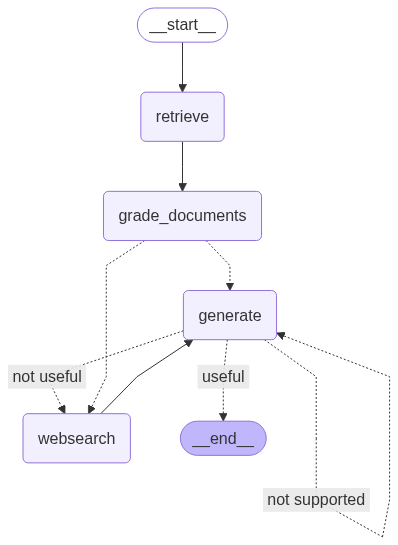
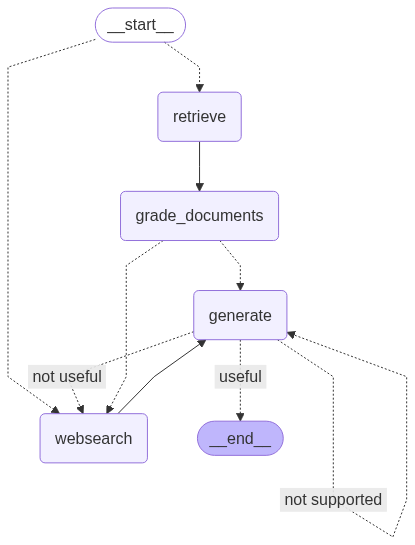
router chain with test cases

diff --git a/graph/chains/tests/test_chains.py b/graph/chains/tests/test_chains.py
@@ -1,8 +1,10 @@
 from pprint import pprint
 from dotenv import load_dotenv
 
+
 load_dotenv()
 
+from graph.chains.router import RouteQuery, question_router
 from graph.chains.hallucination_grader import GradeHallucinations, hallucination_grader
 from graph.chains.retrieval_grader import GradeDocuments, retrieval_grader
 from graph.chains.generation import generation_chain
@@ -10,46 +12,46 @@ from graph.chains.generation import generation_chain
 from ingestion import retriever
 
 
-# def test_retrival_grader_answer_yes() -> None:
-#     question = "agent memory"
-#     docs = retriever.invoke(question)
-#     doc_txt = docs[1].page_content
+def test_retrieval_grader_answer_yes() -> None:
+    question = "agent memory"
+    docs = retriever.invoke(question)
+    doc_txt = docs[1].page_content
 
-#     res: GradeDocuments = retrieval_grader.invoke(
-#         {"question": question, "document": doc_txt}
-#     )  # type: ignore
+    res: GradeDocuments = retrieval_grader.invoke(
+        {"question": question, "document": doc_txt}
+    )  # type: ignore
 
-#     assert res.binary_score == "yes"
-
-
-# def test_retrival_grader_answer_no() -> None:
-#     question = "agent memory"
-#     docs = retriever.invoke(question)
-#     doc_txt = docs[1].page_content
-
-#     res: GradeDocuments = retrieval_grader.invoke(
-#         {"question": "how to make pizaa", "document": doc_txt}
-#     )  # type: ignore
-
-#     assert res.binary_score == "no"
+    assert res.binary_score == "yes"
 
 
-# def test_generation_chain() -> None:
-#     question = "agent memory"
-#     docs = retriever.invoke(question)
-#     generation = generation_chain.invoke({"context": docs, "question": question})
-#     pprint(generation)
+def test_retrieval_grader_answer_no() -> None:
+    question = "agent memory"
+    docs = retriever.invoke(question)
+    doc_txt = docs[1].page_content
+
+    res: GradeDocuments = retrieval_grader.invoke(
+        {"question": "how to make pizaa", "document": doc_txt}
+    )  # type: ignore
+
+    assert res.binary_score == "no"
 
 
-# def test_hallucination_grader_answer_yes() -> None:
-#     question = "agent memory"
-#     docs = retriever.invoke(question)
+def test_generation_chain() -> None:
+    question = "agent memory"
+    docs = retriever.invoke(question)
+    generation = generation_chain.invoke({"context": docs, "question": question})
+    pprint(generation)
 
-#     generation = generation_chain.invoke({"context": docs, "question": question})
-#     res: GradeHallucinations = hallucination_grader.invoke(
-#         {"documents": docs, "generation": generation}
-#     )
-#     assert res.binary_score == "yes"
+
+def test_hallucination_grader_answer_yes() -> None:
+    question = "agent memory"
+    docs = retriever.invoke(question)
+
+    generation = generation_chain.invoke({"context": docs, "question": question})
+    res: GradeHallucinations = hallucination_grader.invoke(
+        {"documents": docs, "generation": generation}
+    )
+    assert res.binary_score == "yes"
 
 
 def test_hallucination_grader_answer_no() -> None:
@@ -63,3 +65,17 @@ def test_hallucination_grader_answer_no() -> None:
         }
     )
     assert res.binary_score == "no"
+
+
+def test_router_to_vectorstore() -> None:
+    question = "agent memory"
+
+    res: RouteQuery = question_router.invoke({"question": question})  # type: ignore
+    assert res.datasource == "vectorstore"
+
+
+def test_router_to_websearch() -> None:
+    question = "how to make pizza"
+
+    res: RouteQuery = question_router.invoke({"question": question})  # type: ignore
+    assert res.datasource == "websearch"

diff --git a/graph/graph.py b/graph/graph.py
@@ -4,6 +4,7 @@ from langgraph.graph import END, StateGraph
 
 from graph.chains.answer_grader import answer_grader
 from graph.chains.hallucination_grader import hallucination_grader
+from graph.chains.router import question_router, RouteQuery
 from graph.consts import RETRIEVE, GRADE_DOCUMENTS, GENERATE, WEBSEARCH
 from graph.nodes import generate, grade_documents, retrieve, web_search
 from graph.state import GraphState
@@ -51,6 +52,18 @@ def grade_generation_grounded_in_documents_and_question(state: GraphState) -> st
         return "not supported"
 
 
+def route_question(state: GraphState) -> str:  # type: ignore
+    print("---ROUTE QUESTION---")
+    question = state["question"]
+    source: RouteQuery = question_router.invoke({"question": question})  # type: ignore
+    if source.datasource == WEBSEARCH:
+        print("---ROUTE QUESTION TO WEB SEARCH---")
+        return WEBSEARCH
+    elif source.datasource == "vectorstore":
+        print("---ROUTE QUESTION TO RAG---")
+        return RETRIEVE
+
+
 workflow = StateGraph(GraphState)
 
 workflow.add_node(RETRIEVE, retrieve)
@@ -59,6 +72,13 @@ workflow.add_node(GENERATE, generate)
 workflow.add_node(WEBSEARCH, web_search)
 
 workflow.set_entry_point(RETRIEVE)
+workflow.set_conditional_entry_point(
+    route_question,
+    {
+        WEBSEARCH: WEBSEARCH,
+        RETRIEVE: RETRIEVE,
+    },
+)
 workflow.add_edge(RETRIEVE, GRADE_DOCUMENTS)
 workflow.add_conditional_edges(
     GRADE_DOCUMENTS,

diff --git a/graph/chains/router.py b/graph/chains/router.py
@@ -1,0 +1,32 @@
+from typing import Literal
+
+from langchain_core.prompts import ChatPromptTemplate
+from pydantic import BaseModel, Field
+from langchain_groq import ChatGroq
+
+
+class RouteQuery(BaseModel):
+    """Route a user query to the most relevant datasource."""
+
+    datasource: Literal["vectorstore", "websearch"] = Field(
+        ...,
+        description="Given a user question choose to route it to web search or a vectorstore.",
+    )
+
+
+llm = ChatGroq(model="meta-llama/llama-4-scout-17b-16e-instruct", temperature=0)
+
+structured_llm_router = llm.with_structured_output(RouteQuery)
+
+system = """You are an expert at routing a user question to a vectorstore or web search.
+The vectorstore contains documents related to agents, prompt engineering, and adversarial attacks.
+Use the vectorstore for questions on these topics. For all else, use web-search."""
+
+route_prompt = ChatPromptTemplate.from_messages(
+    [
+        ("system", system),
+        ("human", "{question}"),
+    ]
+)
+
+question_router = route_prompt | structured_llm_router
